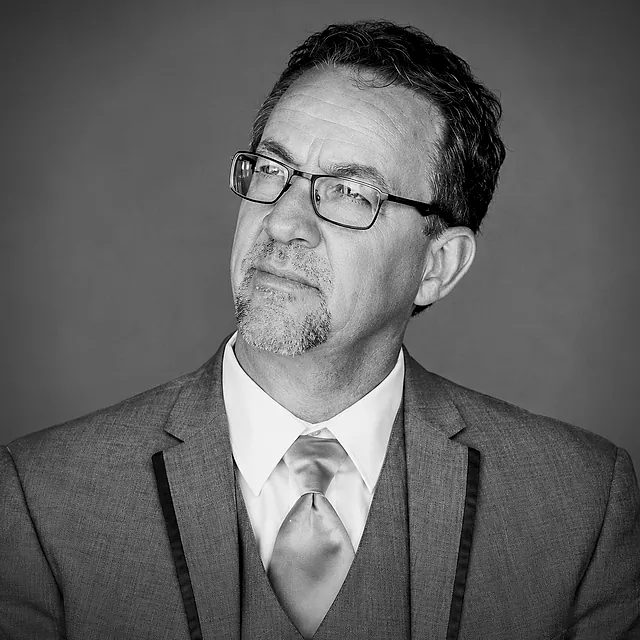
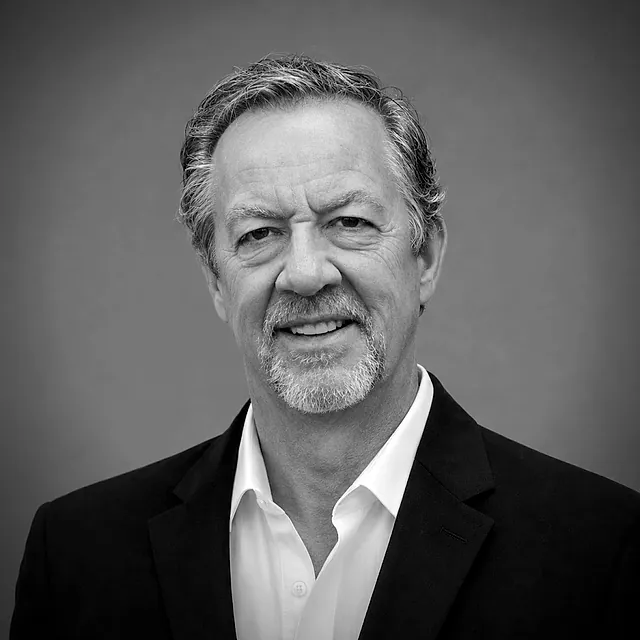
Team photos replaced; Farmers card links both of Bret's Farmers pages
Team: new group photo and new Rodney Roberts portrait, regraded like the rest of the set. The group
photo is 638px wide, so the largest output is 638 (was 800), never upscaled. team-group-800.webp is
replaced by team-group-638.webp.

Farmers page: the agent card now has two buttons, one for each office (Lee's Summit and Northland),
both plain outbound links. The build checks both URLs and the link attributes.

diff --git a/src/config/site.js b/src/config/site.js
@@ -129,23 +129,25 @@ export function mapEmbedUrl(loc) {
 }
 
 /**
- * Bret's official Farmers agent page on farmers.com, linked from the Farmers
- * Insurance page. The agency's own profile, so a plain link, not a paid referral.
+ * Bret's official Farmers agent pages on farmers.com (one per office), linked from the
+ * Farmers Insurance page. The agency's own profiles, so plain links, not paid referrals.
  */
 export const FARMERS_AGENT = {
-  url: 'https://agents.farmers.com/mo/lees-summit/bret-ballentine/',
+  pages: [
+    { office: "Lee's Summit", url: 'https://agents.farmers.com/mo/lees-summit/bret-ballentine/', label: "Bret's Lee's Summit Farmers page" },
+    { office: 'Northland', url: 'https://agents.farmers.com/mo/kansas-city/bret-ballentine/', label: "Bret's Northland Farmers page" },
+  ],
   kicker: 'Your Farmers agent',
-  heading: "Bret's official Farmers agent page",
-  label: "Visit Bret's Farmers agent page",
-  body: "Farmers publishes an official page for Bret Ballentine as your local Farmers Insurance agent. It sits on farmers.com, so you can check him out with Farmers directly.",
-  // Taken from his Farmers profile on 9 Nov 2026. Re-check if Farmers changes it.
+  heading: "Bret's official Farmers agent pages",
+  body: "Farmers publishes an official page for Bret Ballentine for each of our two offices. They sit on farmers.com, so you can check him out with Farmers directly.",
+  // Taken from his Farmers profile on 9 Nov 2026 (Lee's Summit page); the Northland page was added 16 Nov 2026. Re-check if Farmers changes it.
   // Deliberately NOT here: the star rating and review count. They change, and the
   // site already shows its own Google ratings, so two different numbers would confuse.
   facts: [
     'Appointed with Farmers for over 5 years',
     'Farmers Toppers Club in 2021 and 2022, ranking in the top 10 percent of the company',
   ],
-  thereHeading: 'On his Farmers page you can',
+  thereHeading: 'On his Farmers pages you can',
   there: [
     'Get an online quote for auto, home, renters, life, business or condo',
     'Bundle auto with home or renters',
@@ -226,10 +228,10 @@ export const PHOTOS = {
   },
   /** Group portrait, graded by scripts/process-team-photos.mjs. */
   teamGroup: {
-    src: '/team/team-group-800.webp',
-    srcset: '/team/team-group-480.webp 480w, /team/team-group-800.webp 800w',
-    width: 800,
-    height: 1200,
+    src: '/team/team-group-638.webp',
+    srcset: '/team/team-group-480.webp 480w, /team/team-group-638.webp 638w',
+    width: 638,
+    height: 957,
     alt: 'The five members of the Ballentine Insurance Group team standing together in a black and white group portrait',
   },
 };
